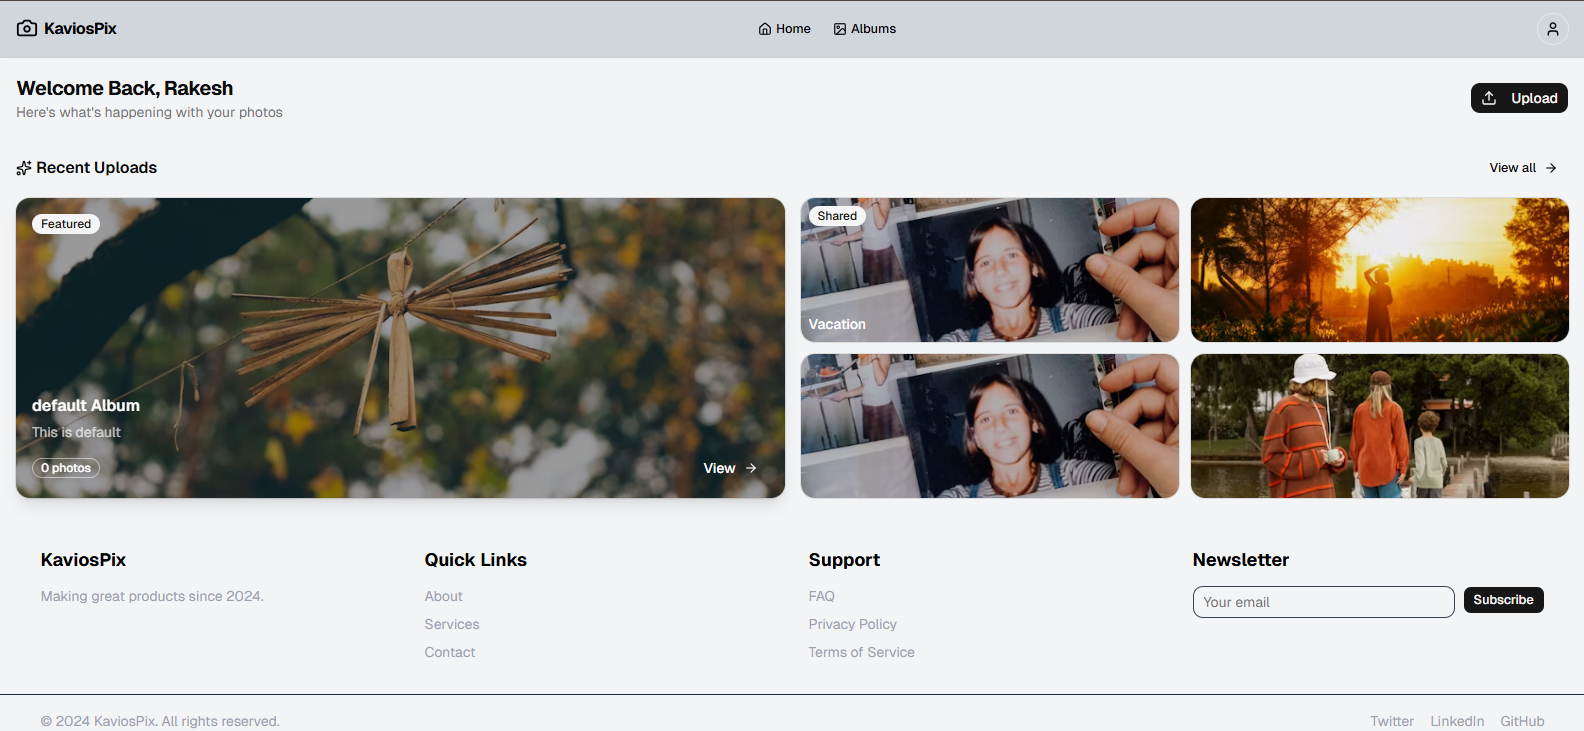
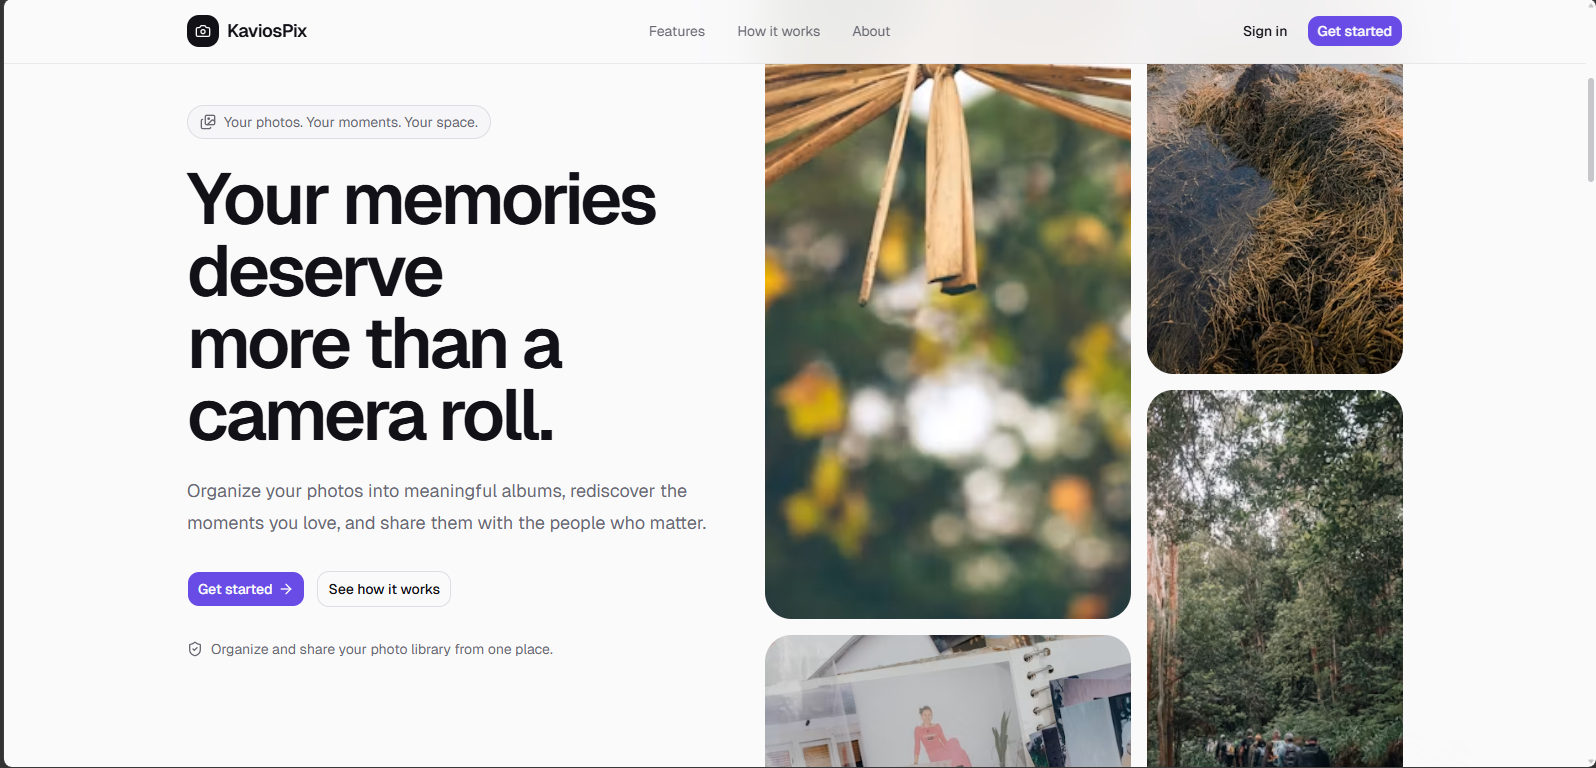
Chore: Update the portfolio

diff --git a/src/pages/Projects.jsx b/src/pages/Projects.jsx
@@ -69,7 +69,9 @@ export default function Projects() {
             "PostgreSQL",
             "Docker",
             "AWS EC2",
-            "Google Gemini API"]}
+            "Google Gemini API",
+            "Vector Embedding"
+          ]}
           demo={"https://kavios-pix-app-mu.vercel.app/"}
           loom = {"https://www.loom.com/share/0a8a820dfe4546a9bb70263e7684def3"}
           github = {"https://github.com/Rakeshneopane/KaviosPix"}
@@ -99,7 +101,7 @@ export default function Projects() {
           title="Merze"
           image={merzeImage}
           description="A full-stack e-commerce application covering the complete shopper workflow — product browsing, cart management, address handling, and order placement — built to nail a clean, RESTful frontend-backend integration with reusable UI components before layering on payments or auth."
-          tech={["React", "React Router", "Node.js", "Express.js", "MongoDB", "REST APIs", "Bootstrap"]}
+          tech={["React", "React Router", "Node.js", "Express.js", "MongoDB", "REST APIs", "Bootstrap", "Tailwind CSS"]}
           demo = {"https://merze.vercel.app/"}
           loom = {"https://www.loom.com/share/25adf0ed43c242d1adc0fad96495302f"}
           github = {"https://github.com/Rakeshneopane/Merze"}
